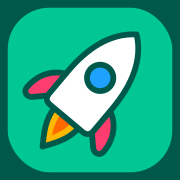
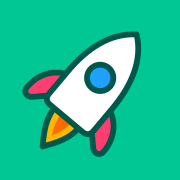
Add files via upload

Changed region(s): [[0.0, 0.0, 1.0, 1.0]]

diff --git a/sw.js b/sw.js
@@ -3,7 +3,7 @@
    아이콘·글꼴은 캐시 우선: 인터넷이 없어도 앱이 그대로 뜬다.
    학습 기록은 캐시가 아니라 localStorage 에 있으므로 캐시를 비워도 사라지지 않는다. */
 
-var VERSION = "ayuboard-2026-09-26i";
+var VERSION = "ayuboard-2026-09-26j";
 var PREFIX = "ayuboard-";
 var SHELL = PREFIX + "shell-" + VERSION;
 
@@ -11,13 +11,14 @@ var SHELL_FILES = [
   "./",
   "./index.html",
   "./manifest.webmanifest",
-  "./apple-touch-icon.png",
+  "./manifest.webmanifest?v=r2",
+  "./apple-touch-icon-r2.png",
   "./apple-touch-icon-precomposed.png",
-  "./icon-180.png",
-  "./icon-192.png",
-  "./icon-512.png",
-  "./icon-maskable-512.png",
-  "./favicon-48.png",
+  "./icon-180-r2.png",
+  "./icon-192-r2.png",
+  "./icon-512-r2.png",
+  "./icon-maskable-512-r2.png",
+  "./favicon-48-r2.png",
   "./Jua-Korean.woff2",
   "./KakaoSmallSans-Regular.woff2",
   "./KakaoSmallSans-Bold.woff2"
@@ -82,5 +83,7 @@ self.addEventListener("fetch", function (e) {
   try { url = new URL(req.url); } catch (err) { return; }
   if (url.origin !== self.location.origin) return;   /* 함께 보기(Firebase) 요청은 그대로 통과 */
   if (req.mode === "navigate") { e.respondWith(networkFirst(req)); return; }
+  /* 아이콘·매니페스트는 늘 새것을 먼저 — 아이콘을 바꿔도 예전 그림이 남지 않게 */
+  if (/\.(png|webmanifest)$/.test(url.pathname)) { e.respondWith(networkFirst(req)); return; }
   e.respondWith(cacheFirst(req));
 });

diff --git a/index.html b/index.html
@@ -12,11 +12,11 @@
 <meta name="apple-mobile-web-app-status-bar-style" content="default">
 <meta name="application-name" content="날아라 아유 보드">
 <title>날아라 아유 보드</title>
-<link rel="manifest" href="./manifest.webmanifest">
-<link rel="icon" href="./favicon-48.png" sizes="48x48" type="image/png">
-<link rel="apple-touch-icon" sizes="180x180" href="./apple-touch-icon.png">
-<link rel="apple-touch-icon" href="./apple-touch-icon.png">
-<link rel="apple-touch-icon-precomposed" href="./apple-touch-icon-precomposed.png">
+<link rel="manifest" href="./manifest.webmanifest?v=r2">
+<link rel="icon" href="./favicon-48-r2.png" sizes="48x48" type="image/png">
+<link rel="apple-touch-icon" sizes="180x180" href="./apple-touch-icon-r2.png">
+<link rel="apple-touch-icon" href="./apple-touch-icon-r2.png">
+<link rel="apple-touch-icon-precomposed" href="./apple-touch-icon-r2.png">
 <style>
 /* 주아 (Jua) · 카카오 작은글씨 — SIL Open Font License 1.1. FONT-LICENSE.txt 참고.
    앱 안의 파일을 먼저 쓰고, 없으면 CDN 으로 넘어간다. */
@@ -577,7 +577,7 @@ footer{font-size:var(--fs-xs);color:var(--ink-3);text-align:center;line-height:1
   <footer>
     달력에서 날짜를 누르면 그날 학습을 보고 고칠 수 있어요.<br>
     기록은 이 기기에 저장돼요. 가끔 백업 파일로 내보내 두세요.<br>
-    <span class="ver">v2026-09-26i</span>
+    <span class="ver">v2026-09-26j</span>
   </footer>
 </div>
 
